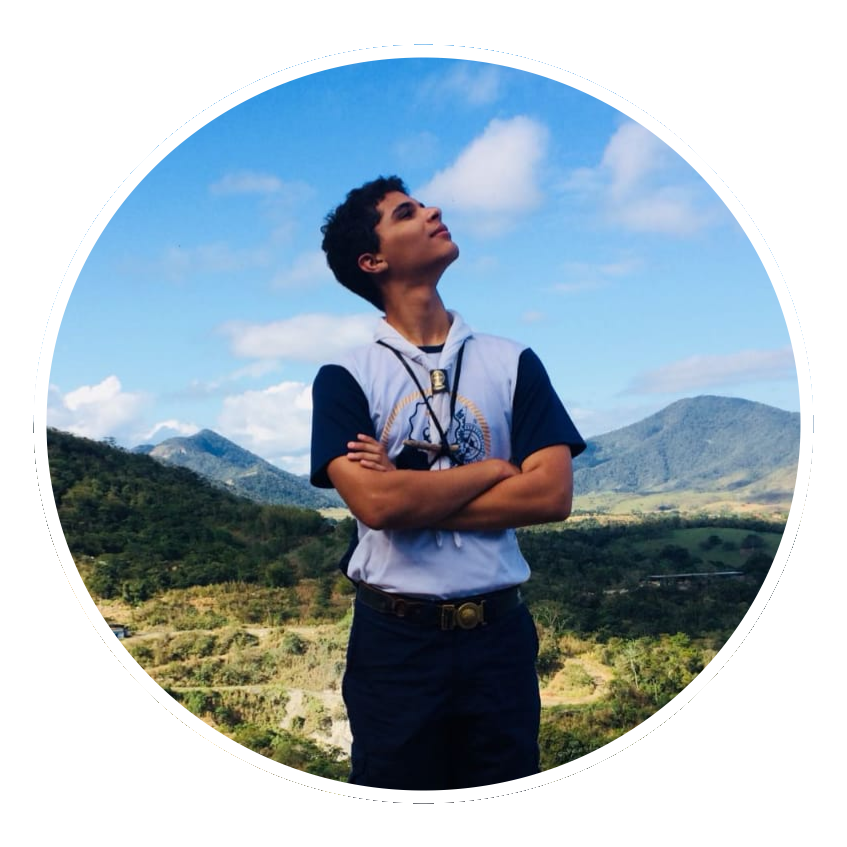
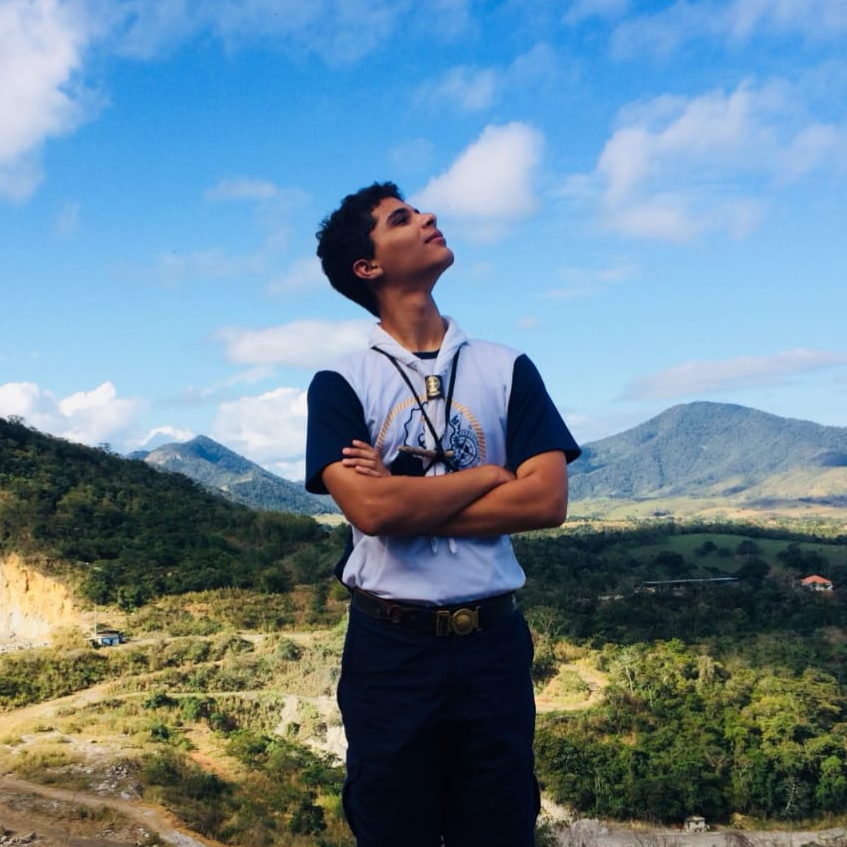
Update profile image source and curculo.png
Changed the profile image source in index.html to use the local curculo.png file instead of a GitHub URL. Updated the curculo.png image file.

diff --git a/index.html b/index.html
@@ -21,7 +21,7 @@
         <!-- Header Section -->
         <header class="flex flex-col sm:flex-row items-center space-y-6 sm:space-y-0 sm:space-x-8">
             <div class="flex-shrink-0">
-                <img class="h-32 w-32 rounded-full object-cover ring-4 ring-indigo-600 shadow-lg" src="https://github.com/poweron0102/curriculo-/blob/main/curculo.png?raw=true" alt="Foto de Nathan Pinheiro Baptista">
+                <img class="h-32 w-32 rounded-full object-cover ring-4 ring-indigo-600 shadow-lg" src="curculo.png" alt="Foto de Nathan Pinheiro Baptista">
             </div>
             <div class="text-center sm:text-left">
                 <h1 class="text-4xl font-bold text-white">Nathan Pinheiro Baptista</h1>
